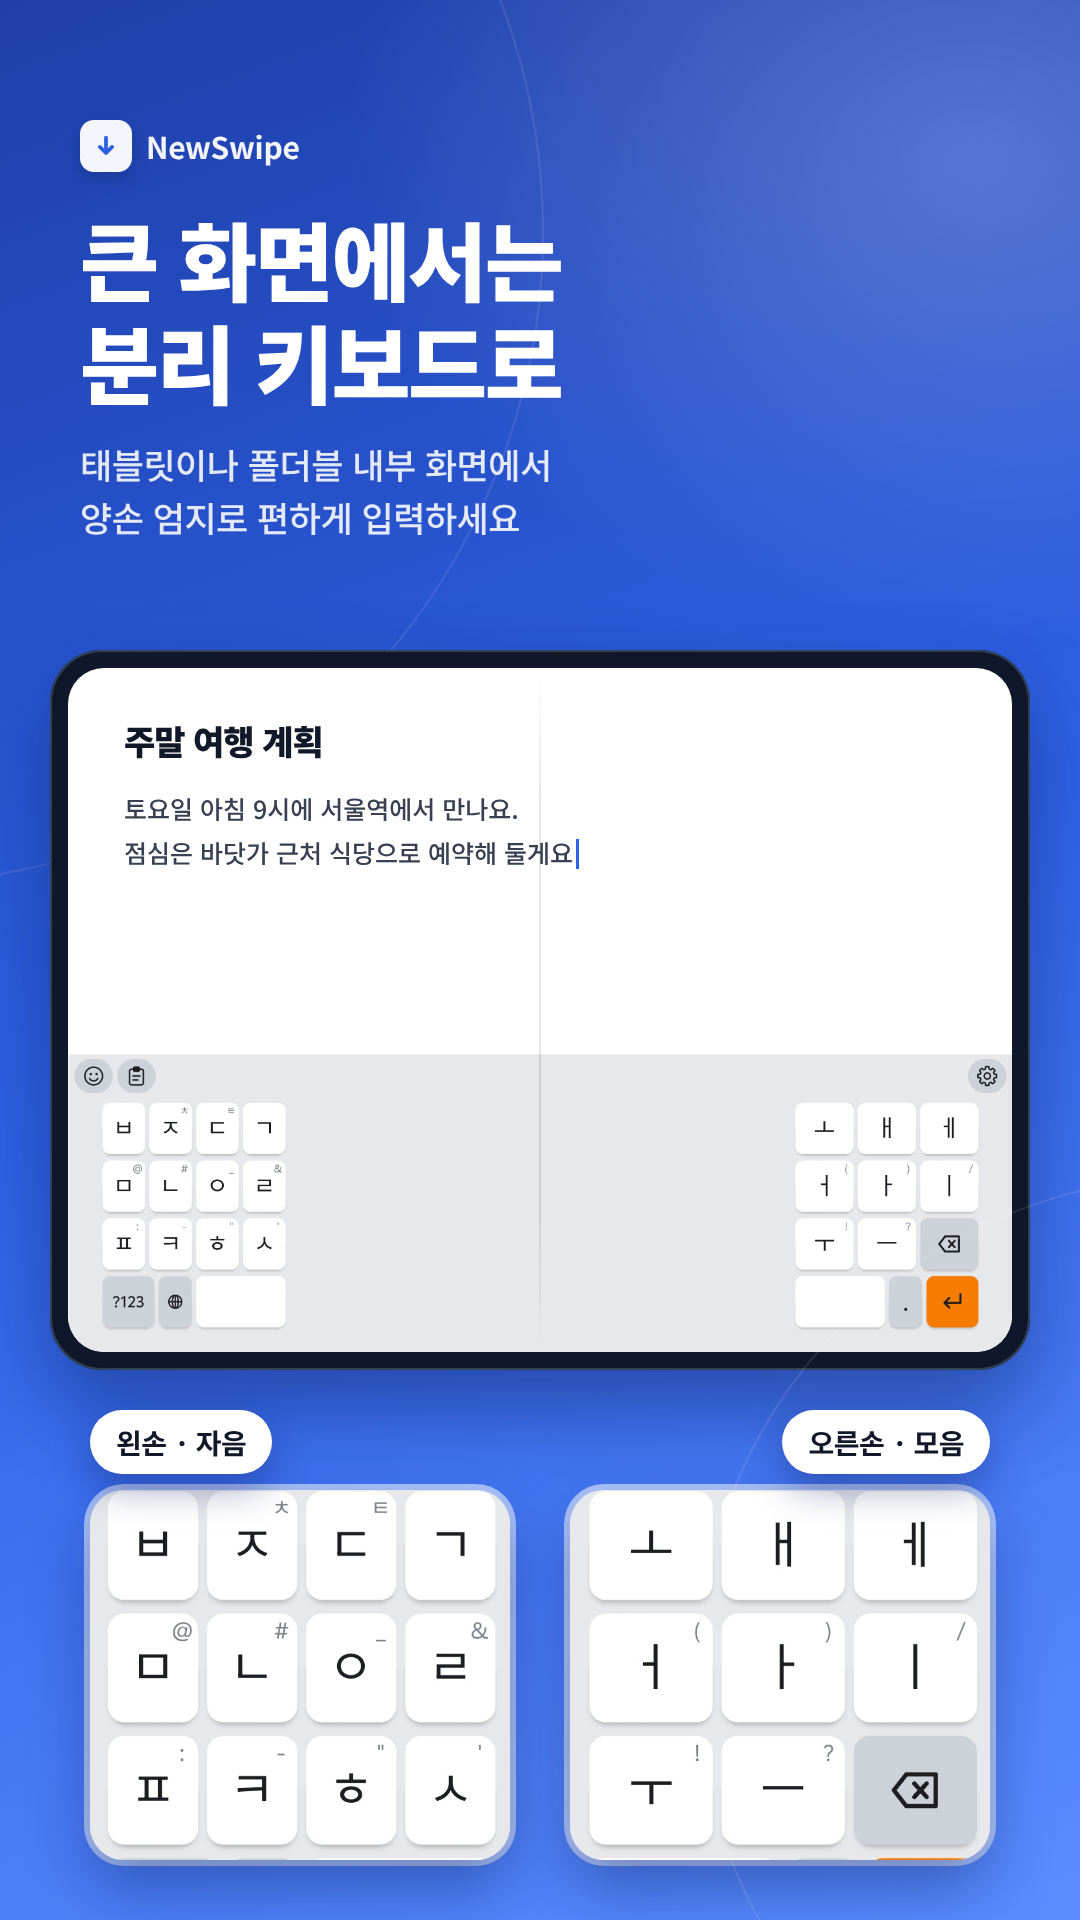
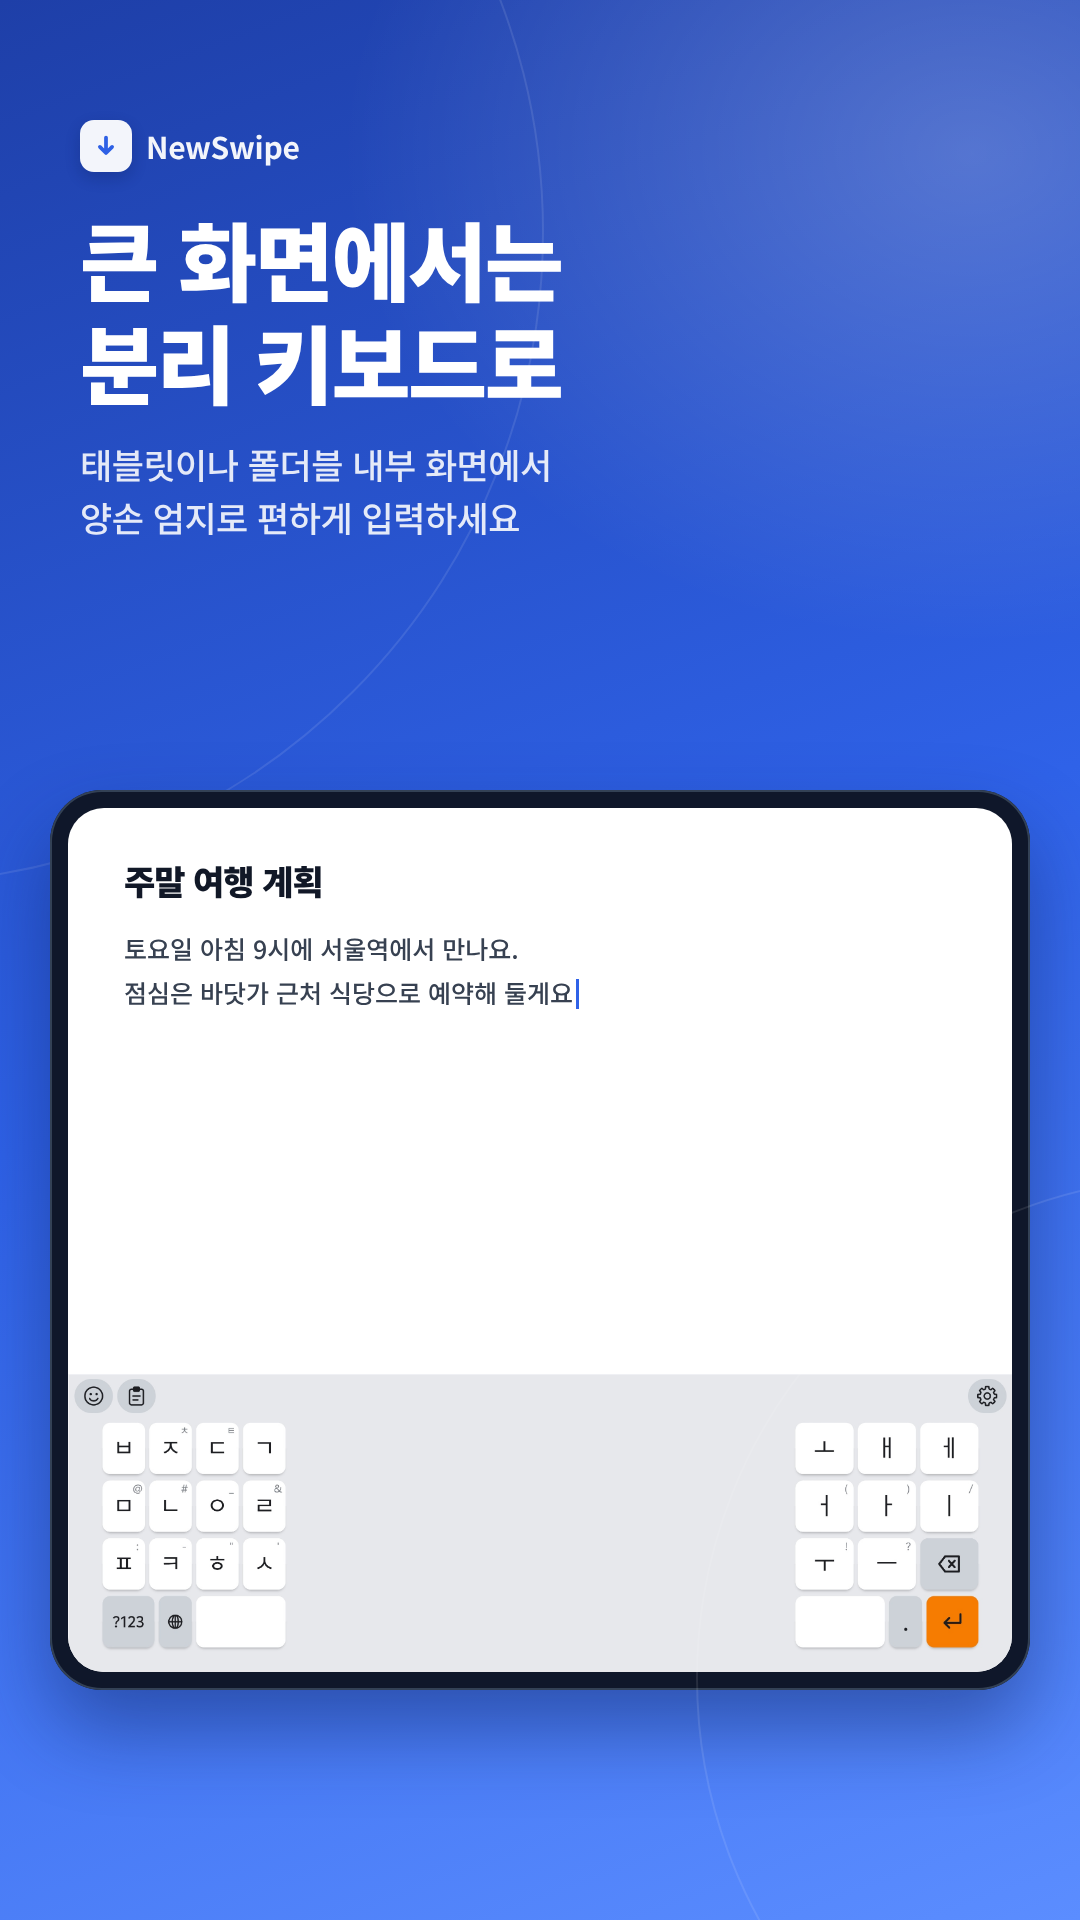
Revise Play Store screenshots per feedback
Rename layout labels, drop the fold line and zoomed halves from the
split keyboard shot, retitle the key actions shot, and use real emoji
and clipboard screenshots in the last image.

Claude-Session: https://claude.ai/code/session_01AwdWyN99B5N53CxBWipQNM

Changed region(s): [[0.0306, 0.3125, 0.9778, 1.0], [0.8861, 0.5312, 0.9472, 0.5938]]

diff --git a/docs/play-store/screenshots/src/shots.html b/docs/play-store/screenshots/src/shots.html
@@ -64,13 +64,13 @@
     <p>다양한 단모음 배열을 써 보고<br>내 손에 맞게 사용자화하세요</p>
   </div>
   <div class="card" style="left:80px; top:630px; width:640px;"><img src="img/l1.jpg"></div>
-  <div class="label" style="left:770px; top:760px;"><b>8열</b><span>Fn 키 포함</span></div>
+  <div class="label" style="left:770px; top:810px;"><b>단모음</b></div>
 
   <div class="card" style="left:360px; top:1050px; width:640px;"><img src="img/l2.jpg"></div>
-  <div class="label" style="left:80px; top:1180px; text-align:left;"><b>7열</b><span>더 넓은 키</span></div>
+  <div class="label" style="left:80px; top:1205px; text-align:left;"><b>NewSwipe<br>단모음</b></div>
 
   <div class="card" style="left:80px; top:1470px; width:640px;"><img src="img/l3.jpg"></div>
-  <div class="label" style="left:770px; top:1570px;"><b>키 너비<br>색상까지</b><span>내 마음대로</span></div>
+  <div class="label" style="left:770px; top:1625px;"><b>균형<br>레이아웃</b></div>
 </section>
 
 <!-- ============ 2. 분리 키보드 ============ -->
@@ -80,7 +80,7 @@
     <h1>큰 화면에서는<br>분리 키보드로</h1>
     <p>태블릿이나 폴더블 내부 화면에서<br>양손 엄지로 편하게 입력하세요</p>
   </div>
-  <div class="device" style="left:50px; top:650px; width:980px; height:720px; border-radius:52px;">
+  <div class="device" style="left:50px; top:790px; width:980px; height:900px; border-radius:52px;">
     <div class="screen" style="border-radius:36px; background:#fff;">
       <div style="position:absolute; inset:0 0 300px 0; padding:48px 56px; color:var(--ink);">
         <div style="font-size:34px; font-weight:900; letter-spacing:-1px;">주말 여행 계획</div>
@@ -90,26 +90,16 @@
         </div>
       </div>
       <img src="img/split.jpg" style="position:absolute; left:0; bottom:0; width:100%; display:block;">
-      <div style="position:absolute; left:50%; top:0; bottom:0; width:2px; margin-left:-1px; background:linear-gradient(rgba(0,0,0,.0), rgba(0,0,0,.10) 20%, rgba(0,0,0,.10) 80%, rgba(0,0,0,0));"></div>
     </div>
   </div>
 
-  <!-- zoomed halves: src cluster L x60-470, R x1525-1935, y95-590 (scale 1.0) -->
-  <div class="card crop" style="left:90px; top:1490px; width:420px; height:370px; background:#E5E7EB; border-radius:34px;">
-    <img src="img/split.jpg" style="width:1998px; left:-55px; top:-102px;">
-  </div>
-  <div class="card crop" style="left:570px; top:1490px; width:420px; height:370px; background:#E5E7EB; border-radius:34px;">
-    <img src="img/split.jpg" style="width:1998px; left:-1520px; top:-102px;">
-  </div>
-  <div class="chip" style="left:90px; top:1410px; padding:12px 26px; font-size:28px;">왼손 · 자음</div>
-  <div class="chip" style="right:90px; top:1410px; padding:12px 26px; font-size:28px;">오른손 · 모음</div>
 </section>
 
 <!-- ============ 3. 키 기능 ============ -->
 <section class="shot" id="s3">
   <div class="head">
     <div class="brand"><span class="ic"><svg width="30" height="30" viewBox="0 0 64 64"><path d="M32 14v32M19 34l13 13 13-13" fill="none" stroke="#2F62E8" stroke-width="8" stroke-linecap="round" stroke-linejoin="round"/></svg></span>NewSwipe</div>
-    <h1>길게 누르고 밀 때,<br>기능은 내가 정해요</h1>
+    <h1>모든 키의 기능을<br>마음대로 정하세요</h1>
     <p>키마다 위·아래·왼쪽·오른쪽으로<br>밀었을 때 할 일을 상세하게 고르세요</p>
   </div>
   <div class="device" style="left:300px; top:650px; width:740px; height:1600px;">
@@ -183,51 +173,8 @@
     <p>Emoji 18.0과 클립보드 기록 등<br>현대적인 기능을 바로 꺼내 쓰세요</p>
   </div>
 
-  <!-- toolbar crop from suggest.jpg: x0-560, y448-572 -->
-  <div class="card crop" style="left:140px; top:640px; width:800px; height:172px; border-radius:40px;">
-    <img src="img/suggest.jpg" style="width:2016px; left:0px; top:-627px;">
-  </div>
-
-  <!-- emoji panel mock -->
-  <div class="card" style="left:60px; top:860px; width:960px; height:560px; padding:30px 34px; color:var(--ink);">
-    <div style="display:flex; align-items:center; gap:16px; background:#fff; border-radius:999px; height:76px; padding:0 30px; font-size:30px; font-weight:500;">
-      <svg width="34" height="34" viewBox="0 0 24 24" fill="none" stroke="#6B7280" stroke-width="2.4" stroke-linecap="round"><circle cx="10.5" cy="10.5" r="6.5"/><path d="M15.5 15.5L21 21"/></svg>
-      <span>웃음</span><span style="display:inline-block; width:3px; height:34px; background:var(--blue); margin-left:-10px;"></span>
-      <span style="margin-left:auto; font-size:24px; color:var(--sub); font-weight:700;">한국어로 검색</span>
-    </div>
-    <div style="display:grid; grid-template-columns:repeat(8,1fr); gap:10px 0; margin-top:30px; font-family:'Noto Color Emoji'; font-size:66px; text-align:center; line-height:1.3;">
-      <span>😀</span><span>😄</span><span>😂</span><span>🤣</span><span>😆</span><span>😹</span><span>🥹</span><span>😊</span>
-      <span>🫩</span><span>🫆</span><span>🪾</span><span>🫜</span><span>🪉</span><span>🪏</span><span>🫟</span><span>🩷</span>
-      <span>🫶</span><span>👍</span><span>🙏</span><span>🎉</span><span>🔥</span><span>✨</span><span>💯</span><span>🥰</span>
-    </div>
-    <div style="position:absolute; left:34px; right:34px; bottom:26px; display:flex; justify-content:space-between; font-family:'Noto Color Emoji'; font-size:40px; opacity:.9;">
-      <span>🕘</span><span style="border-bottom:5px solid var(--blue); padding-bottom:6px;">😀</span><span>🐻</span><span>🍔</span><span>⚽</span><span>🚗</span><span>💡</span><span>🔣</span><span>🏳</span>
-    </div>
-  </div>
-
-  <!-- clipboard mock -->
-  <div class="card" style="left:60px; top:1470px; width:960px; height:360px; padding:28px 34px; color:var(--ink);">
-    <div style="display:flex; align-items:center; font-size:30px; font-weight:900; letter-spacing:-.5px;">
-      클립보드 기록
-      <span style="margin-left:auto; font-size:24px; color:var(--sub); font-weight:700;">고정 · 사진도 저장</span>
-    </div>
-    <div style="display:grid; grid-template-columns:1fr 1fr 1fr; gap:18px; margin-top:24px;">
-      <div style="background:#fff; border-radius:24px; height:220px; padding:22px; font-size:25px; line-height:1.5; font-weight:500; position:relative;">
-        <div style="font-size:21px; font-weight:700; color:var(--blue); margin-bottom:8px;">📌 고정</div>
-        내일 오후 3시<br>회의실 B에서 봬요
-      </div>
-      <div style="background:#fff; border-radius:24px; height:220px; padding:22px; font-size:25px; line-height:1.5; font-weight:500;">
-        <div style="font-size:21px; font-weight:700; color:var(--sub); margin-bottom:8px;">방금</div>
-        newswipe@<br>example.com
-      </div>
-      <div style="border-radius:24px; height:220px; overflow:hidden; position:relative;
-                  background: linear-gradient(180deg, #FDBA74 0%, #FB7185 45%, #6366F1 100%);">
-        <div style="position:absolute; left:-20px; right:-20px; bottom:-30px; height:110px; border-radius:50% 50% 0 0; background:#1E293B;"></div>
-        <div style="position:absolute; left:110px; top:50px; width:64px; height:64px; border-radius:50%; background:#FEF3C7;"></div>
-        <div style="position:absolute; left:16px; top:14px; background:rgba(0,0,0,.45); color:#fff; font-size:20px; font-weight:700; padding:4px 12px; border-radius:999px;">사진</div>
-      </div>
-    </div>
-  </div>
+  <div class="card" style="left:100px; top:650px; width:880px;"><img src="img/emoji.jpg"></div>
+  <div class="card" style="left:100px; top:1290px; width:880px; height:553px;"><img src="img/clipboard.jpg"></div>
 </section>
 
 </body>
